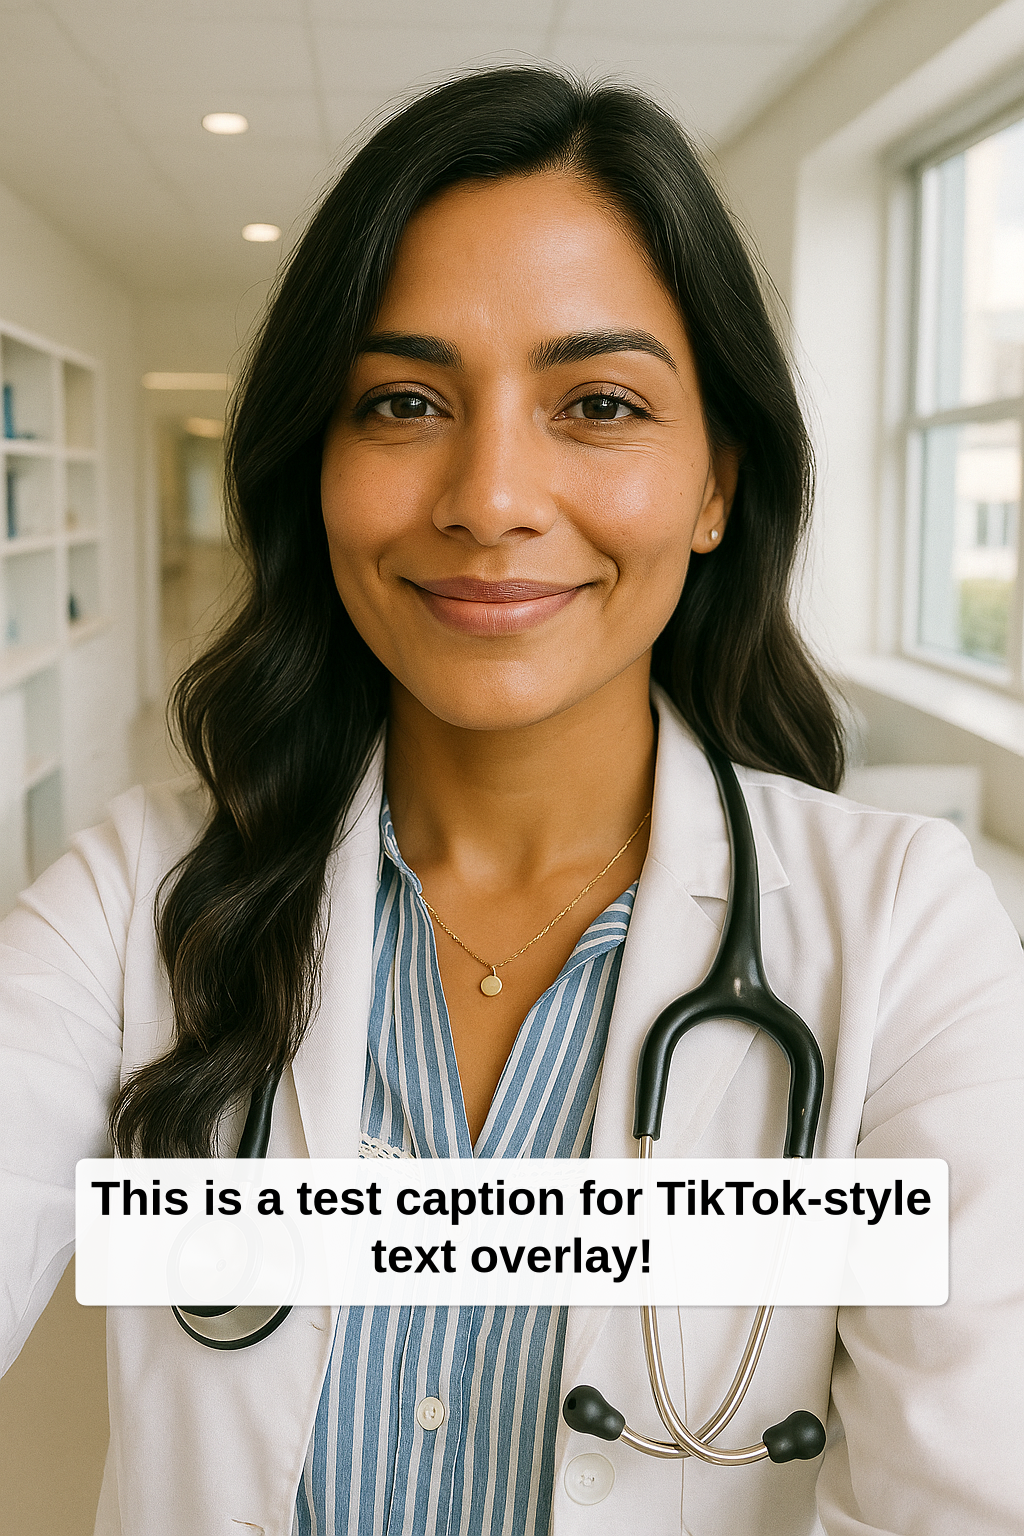
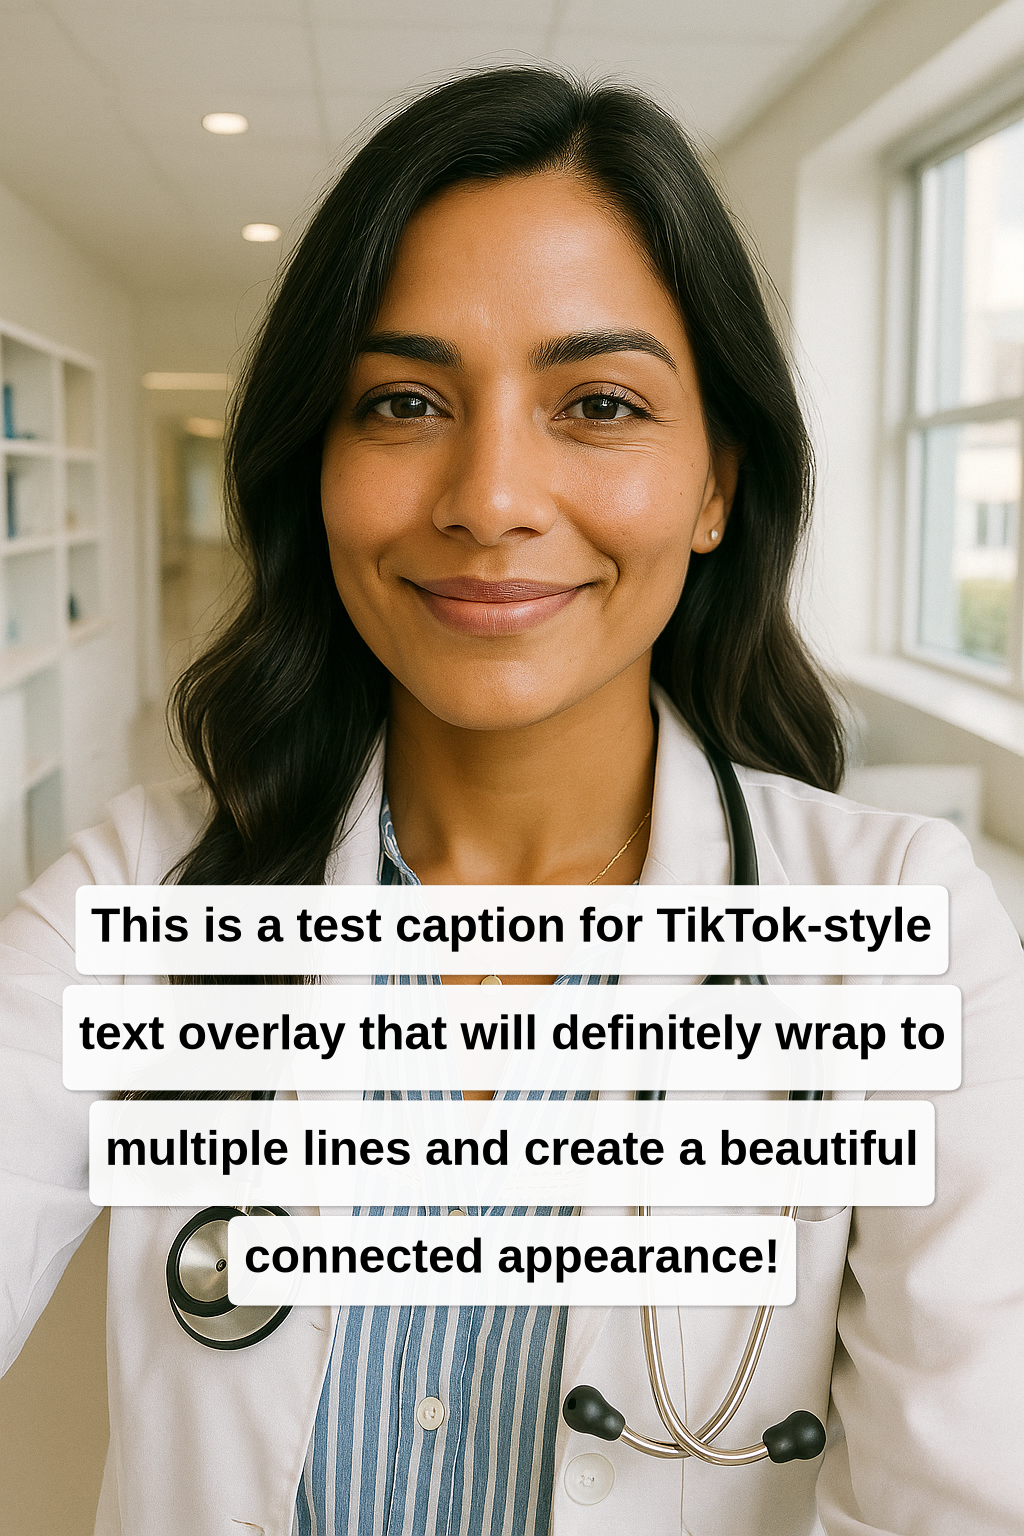
Enhance text overlay test by adding middle line padding and adjusting vertical positioning logic for improved bubble layout. Update test text for better demonstration of multi-line wrapping.

Changed region(s): [[0.0625, 0.5625, 0.9375, 0.875]]

diff --git a/text-overlay-test.js b/text-overlay-test.js
@@ -40,6 +40,9 @@ class TikTokTextOverlayTest {
       bubblePadding: 16,
       bubbleRadius: 12,
 
+      // Middle line padding for connected appearance
+      middleLinePadding: 8, // Extra padding for middle lines
+
       // Shadow effects for depth
       shadowColor: "rgba(0, 0, 0, 0.3)",
       shadowBlur: 4,
@@ -133,18 +136,33 @@ class TikTokTextOverlayTest {
    * Calculate vertical position based on configuration setting
    *
    * @param {number} canvasHeight - Canvas height
-   * @param {number} textHeight - Text bubble height
-   * @returns {number} Y position for text placement
+   * @param {number} totalTextHeight - Total height of all text lines
+   * @param {number} lineCount - Number of text lines
+   * @returns {number} Y position for first line placement
    */
-  calculateVerticalPosition(canvasHeight, textHeight) {
+  calculateVerticalPosition(canvasHeight, totalTextHeight, lineCount) {
+    const lineHeight = this.config.fontSize * this.config.lineHeight;
+    const bubbleHeight = lineHeight + this.config.bubblePadding * 2;
+    const gapBetweenBubbles = 10; // Gap between individual bubbles
+
+    // Calculate total height including middle line padding
+    let totalBubbleHeight =
+      lineCount * bubbleHeight + (lineCount - 1) * gapBetweenBubbles;
+
+    // Add extra padding for middle lines (lines 2, 3, etc. but not first or last)
+    if (lineCount > 2) {
+      const middleLinesCount = lineCount - 2; // Lines 2, 3, etc.
+      totalBubbleHeight += middleLinesCount * this.config.middleLinePadding * 2; // Top and bottom padding
+    }
+
     switch (this.config.position) {
       case "top":
         return canvasHeight * 0.15; // 15% from top
       case "bottom":
-        return canvasHeight * 0.85 - textHeight; // 15% from bottom
+        return canvasHeight * 0.85 - totalBubbleHeight; // 15% from bottom
       case "center":
       default:
-        return (canvasHeight - textHeight) / 2; // Center
+        return (canvasHeight - totalBubbleHeight) / 2; // Center
     }
   }
 
@@ -183,42 +201,61 @@ class TikTokTextOverlayTest {
         this.config.maxWidth
       );
 
-      // Calculate bubble dimensions based on text
-      const bubbleWidth = Math.min(
-        Math.max(
-          ...textMetrics.lines.map((line) => ctx.measureText(line).width)
-        ) +
-          this.config.bubblePadding * 2,
-        this.config.maxWidth + this.config.bubblePadding * 2
-      );
-      const bubbleHeight =
-        textMetrics.totalHeight + this.config.bubblePadding * 2;
+      // Calculate positioning for first line
+      const lineHeight = this.config.fontSize * this.config.lineHeight;
+      const bubbleHeight = lineHeight + this.config.bubblePadding * 2;
+      const gapBetweenBubbles = 10; // Gap between individual bubbles
 
-      // Calculate positioning
-      const bubbleX = (this.config.width - bubbleWidth) / 2;
-      const bubbleY = this.calculateVerticalPosition(
+      const startY = this.calculateVerticalPosition(
         this.config.height,
-        bubbleHeight
+        textMetrics.totalHeight,
+        textMetrics.lines.length
       );
 
-      // Draw bubble background
-      this.drawBubble(
-        ctx,
-        bubbleX,
-        bubbleY,
-        bubbleWidth,
-        bubbleHeight,
-        this.config.bubbleRadius
-      );
-
-      // Draw text lines
-      ctx.fillStyle = this.config.textColor;
-      const startY =
-        bubbleY + this.config.bubblePadding + this.config.fontSize / 2;
-
+      // Draw individual bubbles for each line
       textMetrics.lines.forEach((line, index) => {
-        const lineY = startY + index * textMetrics.lineHeight;
-        ctx.fillText(line, this.config.width / 2, lineY);
+        // Calculate bubble dimensions for this specific line
+        const lineWidth = ctx.measureText(line).width;
+        const bubbleWidth = lineWidth + this.config.bubblePadding * 2;
+
+        // Determine if this is a middle line (not first or last)
+        const isMiddleLine = index > 0 && index < textMetrics.lines.length - 1;
+        const extraPadding = isMiddleLine ? this.config.middleLinePadding : 0;
+        const adjustedBubbleHeight = bubbleHeight + extraPadding * 2;
+
+        // Calculate bubble position with accumulated height
+        const bubbleX = (this.config.width - bubbleWidth) / 2;
+        let bubbleY = startY;
+
+        // Add height of all previous lines
+        for (let i = 0; i < index; i++) {
+          const isPreviousMiddleLine =
+            i > 0 && i < textMetrics.lines.length - 1;
+          const previousExtraPadding = isPreviousMiddleLine
+            ? this.config.middleLinePadding
+            : 0;
+          const previousBubbleHeight = bubbleHeight + previousExtraPadding * 2;
+          bubbleY += previousBubbleHeight + gapBetweenBubbles;
+        }
+
+        // Draw individual bubble background
+        this.drawBubble(
+          ctx,
+          bubbleX,
+          bubbleY,
+          bubbleWidth,
+          adjustedBubbleHeight,
+          this.config.bubbleRadius
+        );
+
+        // Draw text for this line (centered within the adjusted bubble)
+        ctx.fillStyle = this.config.textColor;
+        const textY =
+          bubbleY +
+          this.config.bubblePadding +
+          extraPadding +
+          this.config.fontSize / 2;
+        ctx.fillText(line, this.config.width / 2, textY);
       });
 
       // Save the result
@@ -273,7 +310,8 @@ async function runTest() {
 
   // Test configuration
   const testImage = "file.png";
-  const testText = "This is a test caption for TikTok-style text overlay!";
+  const testText =
+    "This is a test caption for TikTok-style text overlay that will definitely wrap to multiple lines and create a beautiful connected appearance!";
 
   try {
     // Set position to bottom (most common for TikTok)
